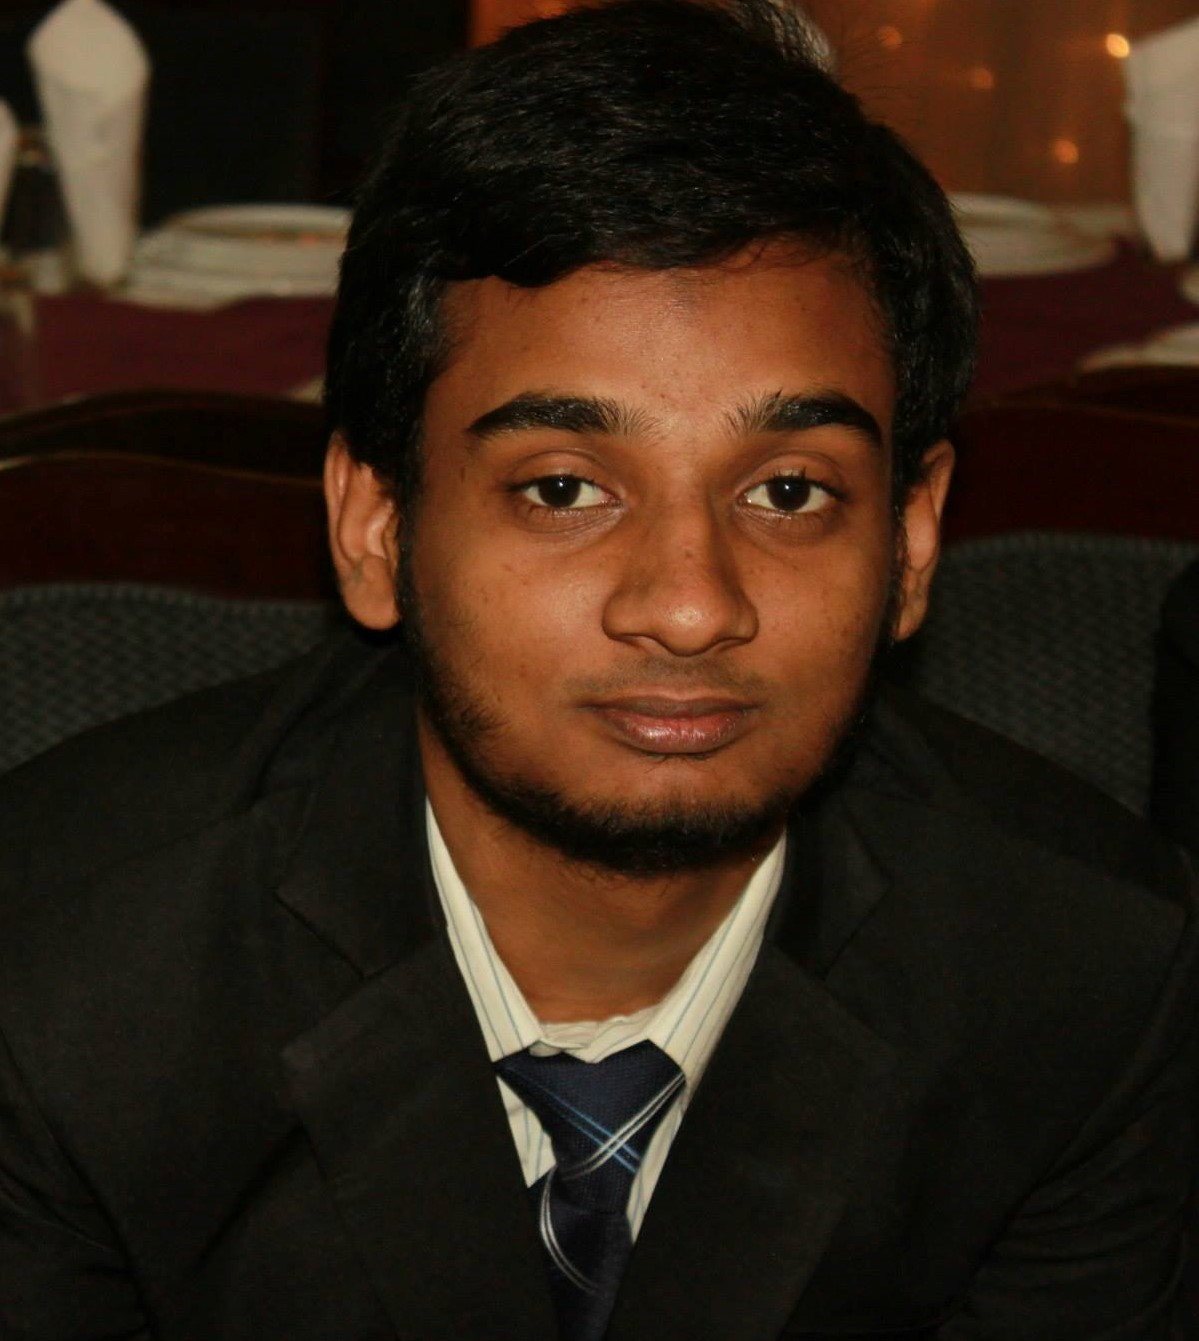
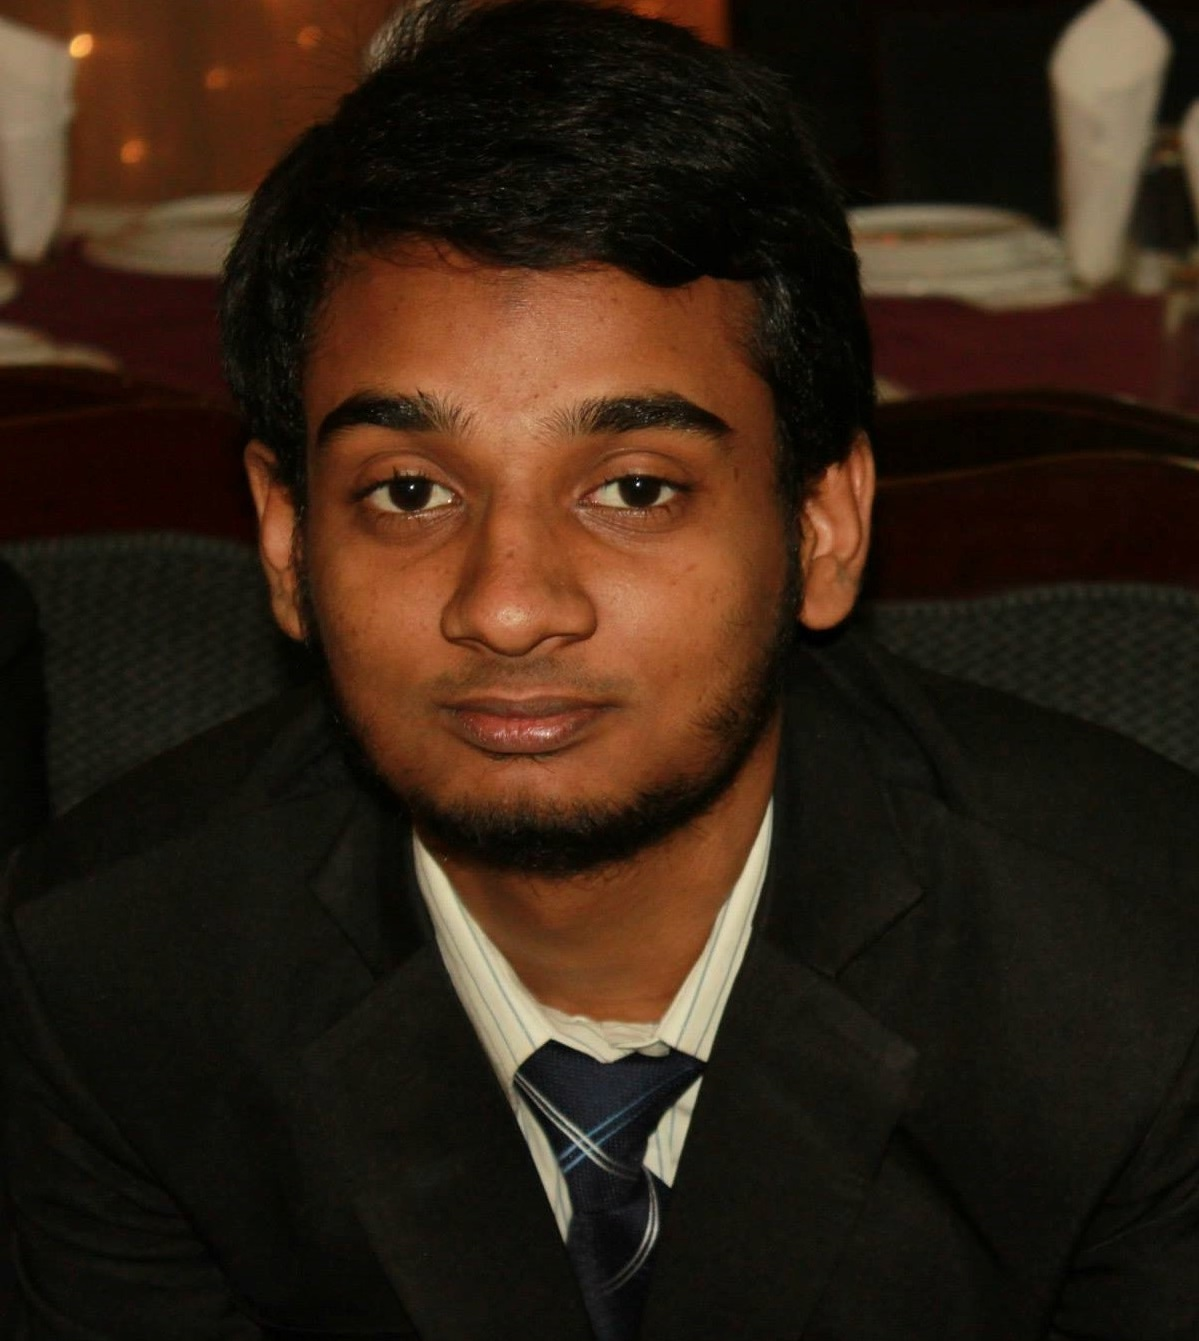
new and improved

diff --git a/index.html b/index.html
@@ -6,59 +6,6 @@
 
     <link rel="stylesheet" href="style.css">
     <link href="https://fonts.googleapis.com/css?family=Press+Start+2P&display=swap" rel="stylesheet">
-    <style>
-        .collapsible {
-            background-color: #777;
-            color: white;
-            cursor: pointer;
-            padding: 18px;
-            width: 100%;
-            border: none;
-            text-align: left;
-            outline: none;
-            font-size: 15px;
-        }
-
-        .content {
-            padding: 0 18px;
-            display: none;
-            overflow: hidden;
-        }
-
-        .active,
-        .collapsible:hover {
-            background-color: #555;
-        }
-
-        .my_ul {
-            display: block;
-            list-style-type: disc;
-            margin-top: 1em;
-            margin-bottom: 1 em;
-            margin-left: 0;
-            margin-right: 0;
-            padding-left: 40px;
-        }
-
-        ::-webkit-scrollbar {
-            width: 10px;
-        }
-
-        /* Track */
-        ::-webkit-scrollbar-track {
-            background: #f1f1f1;
-        }
-
-        /* Handle */
-        ::-webkit-scrollbar-thumb {
-            background: #888;
-        }
-
-        /* Handle on hover */
-        ::-webkit-scrollbar-thumb:hover {
-            background: #555;
-        }
-    </style>
 </head>
 
 <script>
@@ -82,6 +29,10 @@
         audio.play();
         console.log(parseInt(number));
     }
+    function play_music(){
+        var audio = document.getElementById("click");
+        audio.play();
+    }
 </script>
 
 <body>
@@ -94,42 +45,66 @@
                 <h1 class="extra" style="font-family: 'Press Start 2P';">Virginia Tech</h1>
             </hgroup>
         </header>
-        <section id="section">
+        <section id="section" style="margin: 35px 0px 0px 100px; width: 420px; height: 630px;">
             <article id="firstCharacter">
-                <figure class="photoContainer"><img id="firstPosition" class="photo" src="profile_pic.jpg"></figure>
-                <table id="firstStats" class="statsTable">
+                <figure class="photoContainer" style="position: relative; margin-left: 0px; width: 40%;"><img
+                        id="firstPosition" class="photo" src="profile_pic.jpg"></figure>
+                <table id="firstStats" class="statsTable" style="position:absolute; width: 50%;">
                     <tr>
-                        <td COLSPAN="3" id="firstName" style="font-family: 'Press Start 2P'; font-size: 18px;">Md Tahsin
+                        <td COLSPAN="3" id="firstName" style="font-family: 'Press Start 2P'; font-size: 12px;">Md Tahsin
                             Tausif</td>
                     </tr>
                     <tr>
-                        <td class="lv" style="font-family: 'Press Start 2P'; font-size: 18px;">Grad Student</td>
-                    </tr>
-                    <tr>
-                        <td class="hp" style="font-family: 'Press Start 2P'; font-size: 18px;">Virginia Tech</td>
+                        <td class="hp" style="font-family: 'Press Start 2P'; font-size: 12px;">Virginia Tech</td>
 
                     </tr>
                     <tr>
-                        <td class="mp" style="font-family: 'Press Start 2P'; font-size: 18px;">Blacksburg, VA, USA</td>
-
+                        <td class="hp" style="font-family: 'Press Start 2P'; font-size: 12px;">
+                            <div>
+                                <div>1st year PhD </div>
+                                <div class="limitBar" style="left: -20px; width: 20px;"></div>
+                                <div class="limitBarFont" style="left: -20px;"></div>
+                            </div>
+                        </td>
                     </tr>
+                    <!-- <tr>
+                        <td id ="firstLimitLevel">Limit level &nbsp;1<div id ="firstLimitBar" class = "limitBar"></div><div class = "limitBarFont"></div></td>
+                    </tr> -->
+
+                    <!-- <tr>
+                        <td class="mp" style="font-family: 'Press Start 2P'; font-size: 12px;">Blacksburg, VA, USA</td>
+
+                    </tr> -->
                 </table>
 
                 <div id="bio"
-                    style="font-size: 18px; width: 600px; top: 10px; font-family: 'Press Start 2P'; font-size: 18px;">
-                    <p>I'm a grad student working on my PhD in Computer Science at Virginia Tech.
+                    style="font-size: 12px; width: 320px; padding-top: 30px; font-family: 'Press Start 2P'; font-size: 12px;">
+                    <p>I'm a 1st year PhD student in Computer Science at Virginia Tech.
                         Currently I'm working under <a href="http://people.cs.vt.edu/sangwonlee/" target="_blank"
                             style="text-decoration: none; color:#20B2AA;"> Dr. Sang Won Lee </a> in the field of
-                        Human-Computer Interaction.
-                        I'm also very interested in Video games as a whole. <br />
+                        Human-Computer Interaction.<br /> I focus on the communication aspect of human interaction over
+                        the
+                        internet. VR/AR/MR is one of the topics I'm focusing on currently, to see how much of their
+                        potential we can explore. I'm also interested in finding the impact video games have on our
+                        lives. <br /> I recieved my B.Sc. degree in Computer Science and Engineering from University of
+                        Dhaka, Bangladesh on 2018. <br /> <br />
+                        My research interests include:
+                        <ul class="my_ul">
+                            <li>HCI</li>
+                            <li>VR/AR/MR</li>
+                            <li>Video Games</li>
+                        </ul>
                     </p>
                 </div>
             </article>
+        </section>
+        <section id="section">
+
             <article id="secondCharacter">
                 <div id="timeline"
-                    style="font-size: 18px; width: 600px; font-family: 'Press Start 2P'; font-size: 18px; ">
+                    style="font-size: 12px; width: 600px; font-family: 'Press Start 2P'; font-size: 12px; ">
                     <h3>Timeline</h3> <br />
-                    <ul class="my_ul" style="overflow-x:hidden; overflow-y: scroll; height: 200px;">
+                    <ul class="my_ul" style="overflow-x:hidden; overflow-y: scroll; height: 480px">
                         <li>Started working as a Graduate Instructor in Virginia Tech in Spring 2020.</li>
                         <li>Started working as a Graduate Teaching Assistant in Virginia Tech in Fall 2019.</li>
                         <li>Joined Virginia Tech as a PhD student in Computer Science in Fall 2019.</li>
@@ -144,11 +119,11 @@
                     </ul>
                 </div>
                 <div id="publications"
-                    style="font-size: 18px; width: 600px; display: none; font-family: 'Press Start 2P'; font-size: 18px;">
+                    style="font-size: 12px; width: 600px; display: none; font-family: 'Press Start 2P'; font-size: 12px;">
                     <h3>Publications</h3> <br />
 
                     <div>
-                        <ul class="my_ul" style="overflow-x: hidden; overflow-y: scroll; height: 200px;">
+                        <ul class="my_ul" style="overflow-x: hidden; overflow-y: scroll; height: 480px">
                             <li>
                                 M. T. Tausif, S. Chowdhury, M. S. Hawlader, M. Hasanuzzaman and H. Heickal,
                                 <a href="https://ieeexplore.ieee.org/abstract/document/8457100"
@@ -162,13 +137,13 @@
                     </div>
                 </div>
                 <div id="teaching"
-                    style="font-size: 18px; width: 600px; display: none; font-family: 'Press Start 2P'; font-size: 18px;">
+                    style="font-size: 12px; width: 600px; display: none; font-family: 'Press Start 2P'; font-size: 12px;">
                     <h3>Teaching</h3> <br /> <br />
 
-                    <div style="overflow-x: hidden; overflow-y: scroll; height: 200px;">
+                    <div style="overflow-x: hidden; overflow-y: scroll; height: 480px">
                         <div>
-                            <button type="button" class="collapsible">
-                                <h3 style="font-family: 'Press Start 2P'; font-size: 18px;">CS2505: Introduction to
+                            <button type="button" class="collapsible" onclick="play_music()">
+                                <h3 style="font-family: 'Press Start 2P'; font-size: 12px;">CS2505: Introduction to
                                     Computer Organization I (Spring 2020)</h3>
                             </button>
                             <div id="teaching_1" class="content">
@@ -219,9 +194,9 @@
                     </div>
                 </div>
                 <div id="cv"
-                    style="all: unset; font-size: 18px; width: 600px; display: none; font-family: 'Press Start 2P'; font-size: 18px;">
+                    style="all: unset; font-size: 12px; width: 600px; display: none; font-family: 'Press Start 2P'; font-size: 12px;">
                     <h3>CV</h3> <br /> <br />
-                    <div style="overflow-x:hidden; overflow-y: scroll; height: 200px;">
+                    <div style="overflow-x:hidden; overflow-y: scroll; height: 480px">
                         <h4>Education</h4>
                         <ul class="my_ul">
                             <li>BSc in Computer Science and Engineering, University of Dhaka, 2018</li>
@@ -293,7 +268,7 @@
                     </div>
                 </div>
                 <div id="contact"
-                    style="all: unset; font-size: 18px; width: 600px; display: none; font-family: 'Press Start 2P'; font-size: 18px;">
+                    style="all: unset; font-size: 12px; width: 600px; display: none; font-family: 'Press Start 2P'; font-size: 12px;">
                     <h3>Contact Info</h3> <br />
                     <h5>Here's a few way you can contact me:</h5> <br />
                     <a style="justify-content: space-around; text-decoration: none; color: #20B2AA;"
@@ -317,7 +292,7 @@
             </article>
         </section>
         <aside id="aside">
-            <ul id="menu" style="font-family: 'Press Start 2P'; font-size: 18px;">
+            <ul id="menu" style="font-family: 'Press Start 2P'; font-size: 12px;">
 
                 <li number="0"><a onclick="move_mouse(0)">Timeline</a></li>
                 <li number="1"><a onclick="move_mouse(1)">Publications</a></li>
@@ -327,13 +302,13 @@
 
             </ul>
 
-            <ul id="time" style="text-align: center; font-family: 'Press Start 2P'; font-size: 18px;">
-                <li>Last revised: 2/23/2020</li>
+            <ul id="time" style="text-align: center; font-family: 'Press Start 2P'; font-size: 12px;">
+                <li>Last revised: 3/4/2020</li>
             </ul>
         </aside>
     </div>
     <img src="https://www.dropbox.com/s/1pq4d1ksjv3tuoz/FF7Cursor.png?raw=1" id="hand_arrow" alt="arrow"
-        style="position: absolute; left: 815px; top: 80px; z-index: 10;">
+        style="position: absolute; left: 1215px; top: 80px; z-index: 10;">
     <audio id="click" src="https://www.dropbox.com/s/fiyx4q2mdwynraj/FF7CursorMove.mp3?raw=1"></audio>
     <script>
         var coll = document.getElementsByClassName("collapsible");

diff --git a/style.css b/style.css
@@ -3,6 +3,58 @@
 	padding: 0px;
 }
 
+.collapsible {
+	background-color: #777;
+	color: white;
+	cursor: pointer;
+	padding: 18px;
+	width: 100%;
+	border: none;
+	text-align: left;
+	outline: none;
+	font-size: 15px;
+}
+
+.content {
+	padding: 0 18px;
+	display: none;
+	overflow: hidden;
+}
+
+.active,
+.collapsible:hover {
+	background-color: #555;
+}
+
+.my_ul {
+	display: block;
+	list-style-type: disc;
+	margin-top: 1em;
+	margin-bottom: 1 em;
+	margin-left: 0;
+	margin-right: 0;
+	padding-left: 40px;
+}
+
+::-webkit-scrollbar {
+	width: 10px;
+}
+
+/* Track */
+::-webkit-scrollbar-track {
+	background: #f1f1f1;
+}
+
+/* Handle */
+::-webkit-scrollbar-thumb {
+	background: #888;
+}
+
+/* Handle on hover */
+::-webkit-scrollbar-thumb:hover {
+	background: #555;
+}
+
 header, nav, section, article, aside, footer{
 	font: 29px arial;
 	display:block;
@@ -132,7 +184,7 @@ cursor:pointer;
 
 #section{
 	position: absolute;
-	margin: 35px 0px 0px 100px;
+	margin: 35px 0px 0px 500px;
 	width: 800px;
 	height: 630px;
 	background: radial-gradient(-180px 0px,circle ,#0053ad 300px,#001b85 500px,#000223);
@@ -330,7 +382,7 @@ margin-left: 0px; /*front  = 0px behind = 62.5*/
 	position:absolute;
 	margin-left: 20px;
 	height: 13px;
-	width: 180px;
+	width: 140px;
 	border: 3px solid;
 	background: linear-gradient(to bottom,rgb(46, 46, 46) 20%,rgb(116, 116, 116) 40%,rgb(116, 116, 116) 100%);
 	 background: -moz-linear-gradient(to bottom,rgb(46, 46, 46) 20%,rgb(116, 116, 116) 40%,rgb(116, 116, 116) 100%);
@@ -387,7 +439,7 @@ margin-left: 0px; /*front  = 0px behind = 62.5*/
 	position:absolute;
 	margin-left: 20px;
 	height: 13px;
-	width: 180px;
+	width: 150px;
 	border: 3px solid;
 	background: linear-gradient(to bottom,rgb(46, 46, 46) 20%,rgb(116, 116, 116) 40%,rgb(116, 116, 116) 100%);
 	 background: -moz-linear-gradient(to bottom,rgb(46, 46, 46) 20%,rgb(116, 116, 116) 40%,rgb(116, 116, 116) 100%);
@@ -422,14 +474,14 @@ margin-left: 0px; /*front  = 0px behind = 62.5*/
 
 #aside{
 	position: absolute;
-	margin: 0px 0px 0px 830px;
+	margin: 0px 0px 0px 1230px;
 	z-index: 3;	
 }
 
 #menu{
 	position: absolute;
 	padding: 10px 0px 10px 40px;
-	width: 300px;
+	width: 240px;
 	list-style: none;
 	background: radial-gradient(-180px 0px,circle ,#0053ad 100px,#001b85 350px,#000223);
      background: -moz-radial-gradient(-180px 0px,circle ,#0053ad 100px,#001b85 350px,#000223);
@@ -497,7 +549,7 @@ margin-left: 0px; /*front  = 0px behind = 62.5*/
 #time{
 	position:absolute;
 	margin: 530px 0px 0px 0px;
-	width: 300px;
+	width: 240px;
 	height: 101px;
 	background: radial-gradient(-40px -290px,circle ,#0053ad 280px,#001b85 350px,#000223);
 	 background: -moz-radial-gradient(-40px -290px,circle ,#0053ad 280px,#001b85 350px,#000223);
